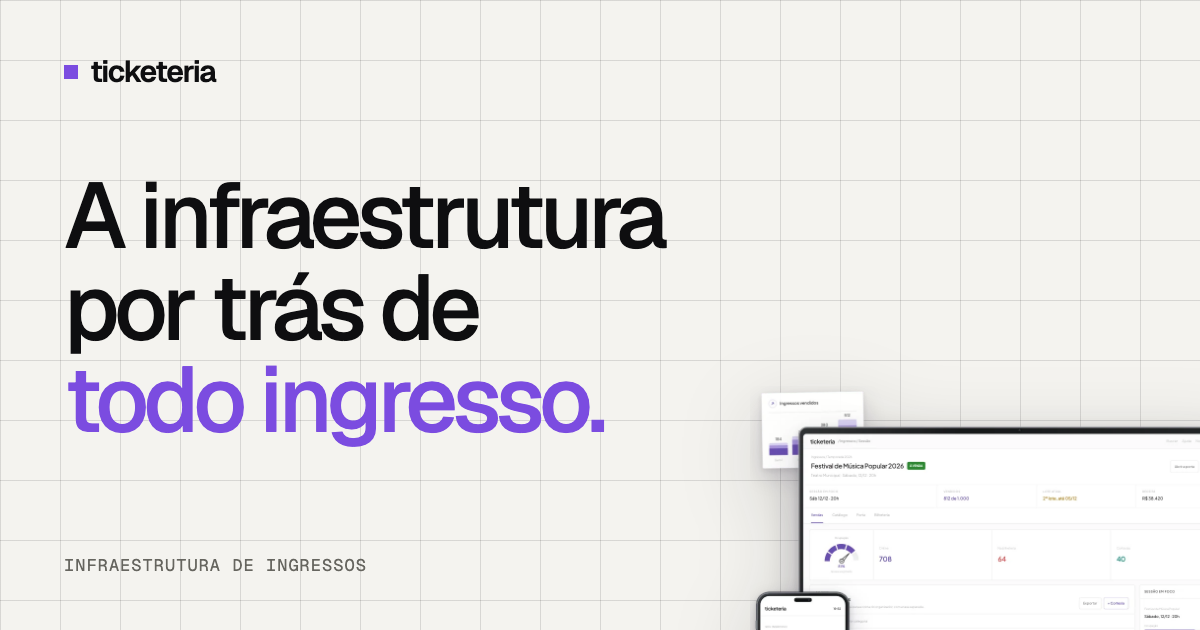
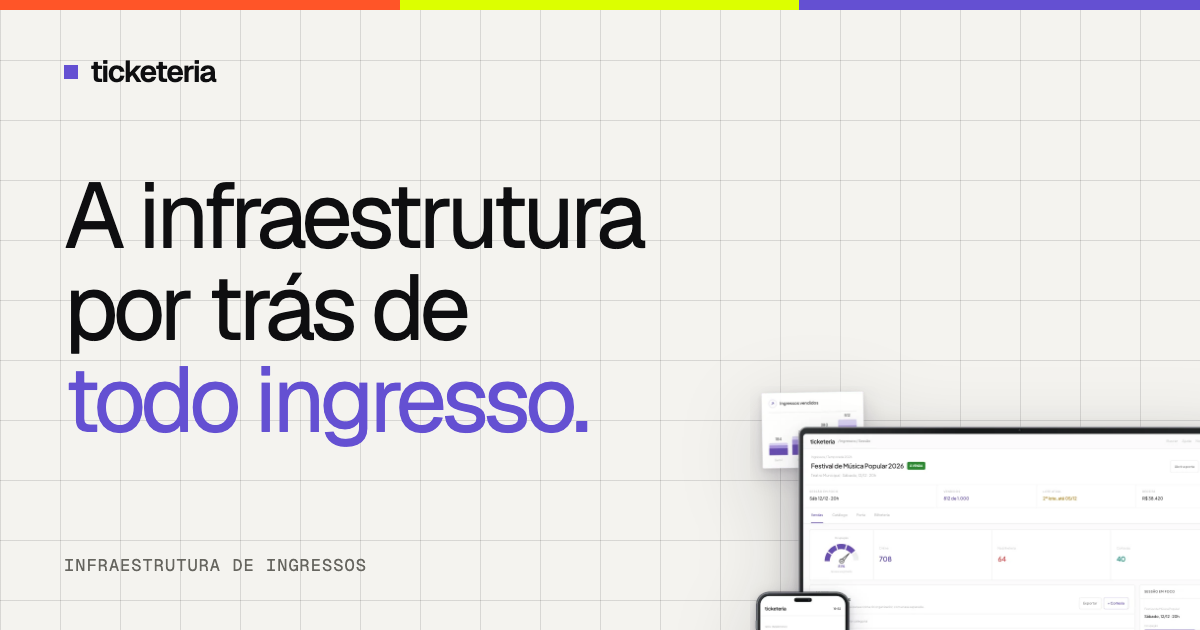
feat(ticketeria): paleta da landing em iris, laranja avermelhado e lima
Violeta #6450D2 (iris), laranja #FF5528 e lima #DCFF00 como acento pequeno (pontos de situação,
marcador do fechamento e seleção de texto), a partir das referências do dono. Títulos em peso 400.
Imagem de compartilhamento refeita com a barra de três cores.

diff --git a/public/ticketeria.html b/public/ticketeria.html
@@ -35,14 +35,16 @@
 /* ── Landing da Ticketeria: concreto claro, tipografia condensada e fios finos ──
    Tudo com o prefixo tku-. Violeta #7B4CE0 e âmbar #FF9419 sobre concreto #F4F3EF; texto #0E0E10.
    Os fios são de 1px, sem sombra dura. Menu e rodapé são os de todas as páginas do site. */
-.tku { --tku-ink:#0E0E10; --tku-papel:#F4F3EF; --tku-linha:rgba(14,14,16,.14); --tku-mudo:#66655F; --tku-vio:#7B4CE0; --tku-amb:#FF9419; --tku-ambl:rgba(255,148,25,.16); --tku-lil:#EADFFF;
+.tku { --tku-ink:#0E0E10; --tku-papel:#F4F3EF; --tku-linha:rgba(14,14,16,.14); --tku-mudo:#66655F; --tku-vio:#6450D2; --tku-amb:#FF5528; --tku-ambl:rgba(255,85,40,.13); --tku-lil:#E6E1FA; --tku-lima:#DCFF00;
   background:var(--tku-papel); color:var(--tku-ink); font-family:'Geist',system-ui,-apple-system,'Segoe UI',sans-serif; font-weight:400; }
 .tku *, .tku *::before, .tku *::after { box-sizing:border-box; }
 :where(.tku) :is(h1,h2,h3,p,ul,pre) { margin:0; padding:0; }
 :where(.tku) ul { list-style:none; }
 .tku-in { max-width:1280px; margin:0 auto; padding:0 64px; }
 .tku-mono { font-family:'Geist Mono',ui-monospace,monospace; font-weight:400; letter-spacing:.06em; text-transform:uppercase; font-size:11px; line-height:1.5; }
-.tku-cond { font-family:'Geist',system-ui,sans-serif; font-weight:500; letter-spacing:-.045em; }
+.tku-cond { font-family:'Geist',system-ui,sans-serif; font-weight:400; letter-spacing:-.05em; }
+.tku h3.tku-cond { font-weight:500; }
+.tku ::selection { background:var(--tku-lima); color:var(--tku-ink); }
 .tku-vio { color:var(--tku-vio); }
 .tku-mudo { color:var(--tku-mudo); }
 .tku-btn { display:inline-flex; align-items:center; justify-content:space-between; gap:22px; min-height:48px; padding:0 18px; font-family:'Geist Mono',ui-monospace,monospace; font-weight:500; font-size:12px; text-transform:uppercase; letter-spacing:.06em; white-space:nowrap; text-decoration:none; transition:background-color .16s ease, color .16s ease; }
@@ -51,7 +53,7 @@
 .tku-btn--pr i { color:#B79CFF; }
 .tku-btn--pr:hover { background:#2A2A30; }
 .tku-btn--am { background:var(--tku-amb); color:var(--tku-ink); }
-.tku-btn--am:hover { background:#FFA53D; }
+.tku-btn--am:hover { background:#FF6C45; }
 .tku-btn--ln { border:1px solid var(--tku-ink); color:var(--tku-ink); }
 .tku-btn--ln:hover { background:rgba(14,14,16,.05); }
 .tku a:focus-visible, .tku summary:focus-visible { outline:2px solid var(--tku-vio); outline-offset:3px; }
@@ -133,7 +135,7 @@
 .tku-ln em { margin-left:auto; font-style:normal; color:var(--tku-mudo); font-family:'Geist Mono',monospace; font-size:11px; text-align:right; }
 .tku-tg { font-family:'Geist Mono',monospace; font-size:10px; text-transform:uppercase; padding:3px 7px; letter-spacing:.05em; white-space:nowrap; }
 .tku-tg--g { background:#DDF3C9; color:#2C6B0E; }
-.tku-tg--y { background:var(--tku-ambl); color:#8A4F00; }
+.tku-tg--y { background:var(--tku-ambl); color:#A8300F; }
 .tku-tg--r { background:#FFDADA; color:#A22; }
 .tku-quem { margin-top:34px; }
 .tku-quem li { display:flex; align-items:center; justify-content:space-between; gap:16px; border-top:1px solid var(--tku-linha); }
@@ -163,7 +165,7 @@
 .tku-cta h2 { font-size:min(100px,8.2vw); line-height:1.02; margin-top:18px; letter-spacing:-.055em; }
 .tku-cta h2 span { color:var(--tku-amb); }
 .tku-cta .tku-tk { margin-top:30px; border-top:1px solid rgba(255,255,255,.2); border-bottom:1px solid rgba(255,255,255,.2); padding:12px 0; display:flex; gap:34px; flex-wrap:wrap; color:rgba(255,255,255,.7); }
-.tku-cta .tku-tk b { color:var(--tku-amb); font-weight:400; }
+.tku-cta .tku-tk b { color:var(--tku-lima); font-weight:400; }
 .tku-cta p.tku-fim { margin-top:30px; display:flex; flex-wrap:wrap; gap:18px; align-items:center; }
 
 @media (max-width:1023px) {
@@ -194,7 +196,7 @@
 
 /* situação de cada capacidade */
 .tku-st { display:inline-flex; align-items:center; gap:7px; padding:3px 8px; border:1px solid var(--tku-linha); background:rgba(255,255,255,.7); font-family:'Geist Mono',ui-monospace,monospace; font-size:10px; letter-spacing:.06em; text-transform:uppercase; white-space:nowrap; color:var(--tku-ink); }
-.tku-st::before { content:""; width:7px; height:7px; border-radius:50%; background:#2E8932; }
+.tku-st::before { content:""; width:7px; height:7px; border-radius:50%; background:var(--tku-lima); box-shadow:0 0 0 1px rgba(14,14,16,.45); }
 .tku-st--c::before { background:var(--tku-amb); }
 .tku-st--b::before { background:transparent; border:1.5px solid var(--tku-vio); }
 .tku-seis { display:grid; grid-template-columns:repeat(3,minmax(0,1fr)); margin-top:48px; border-top:1px solid var(--tku-linha); }
